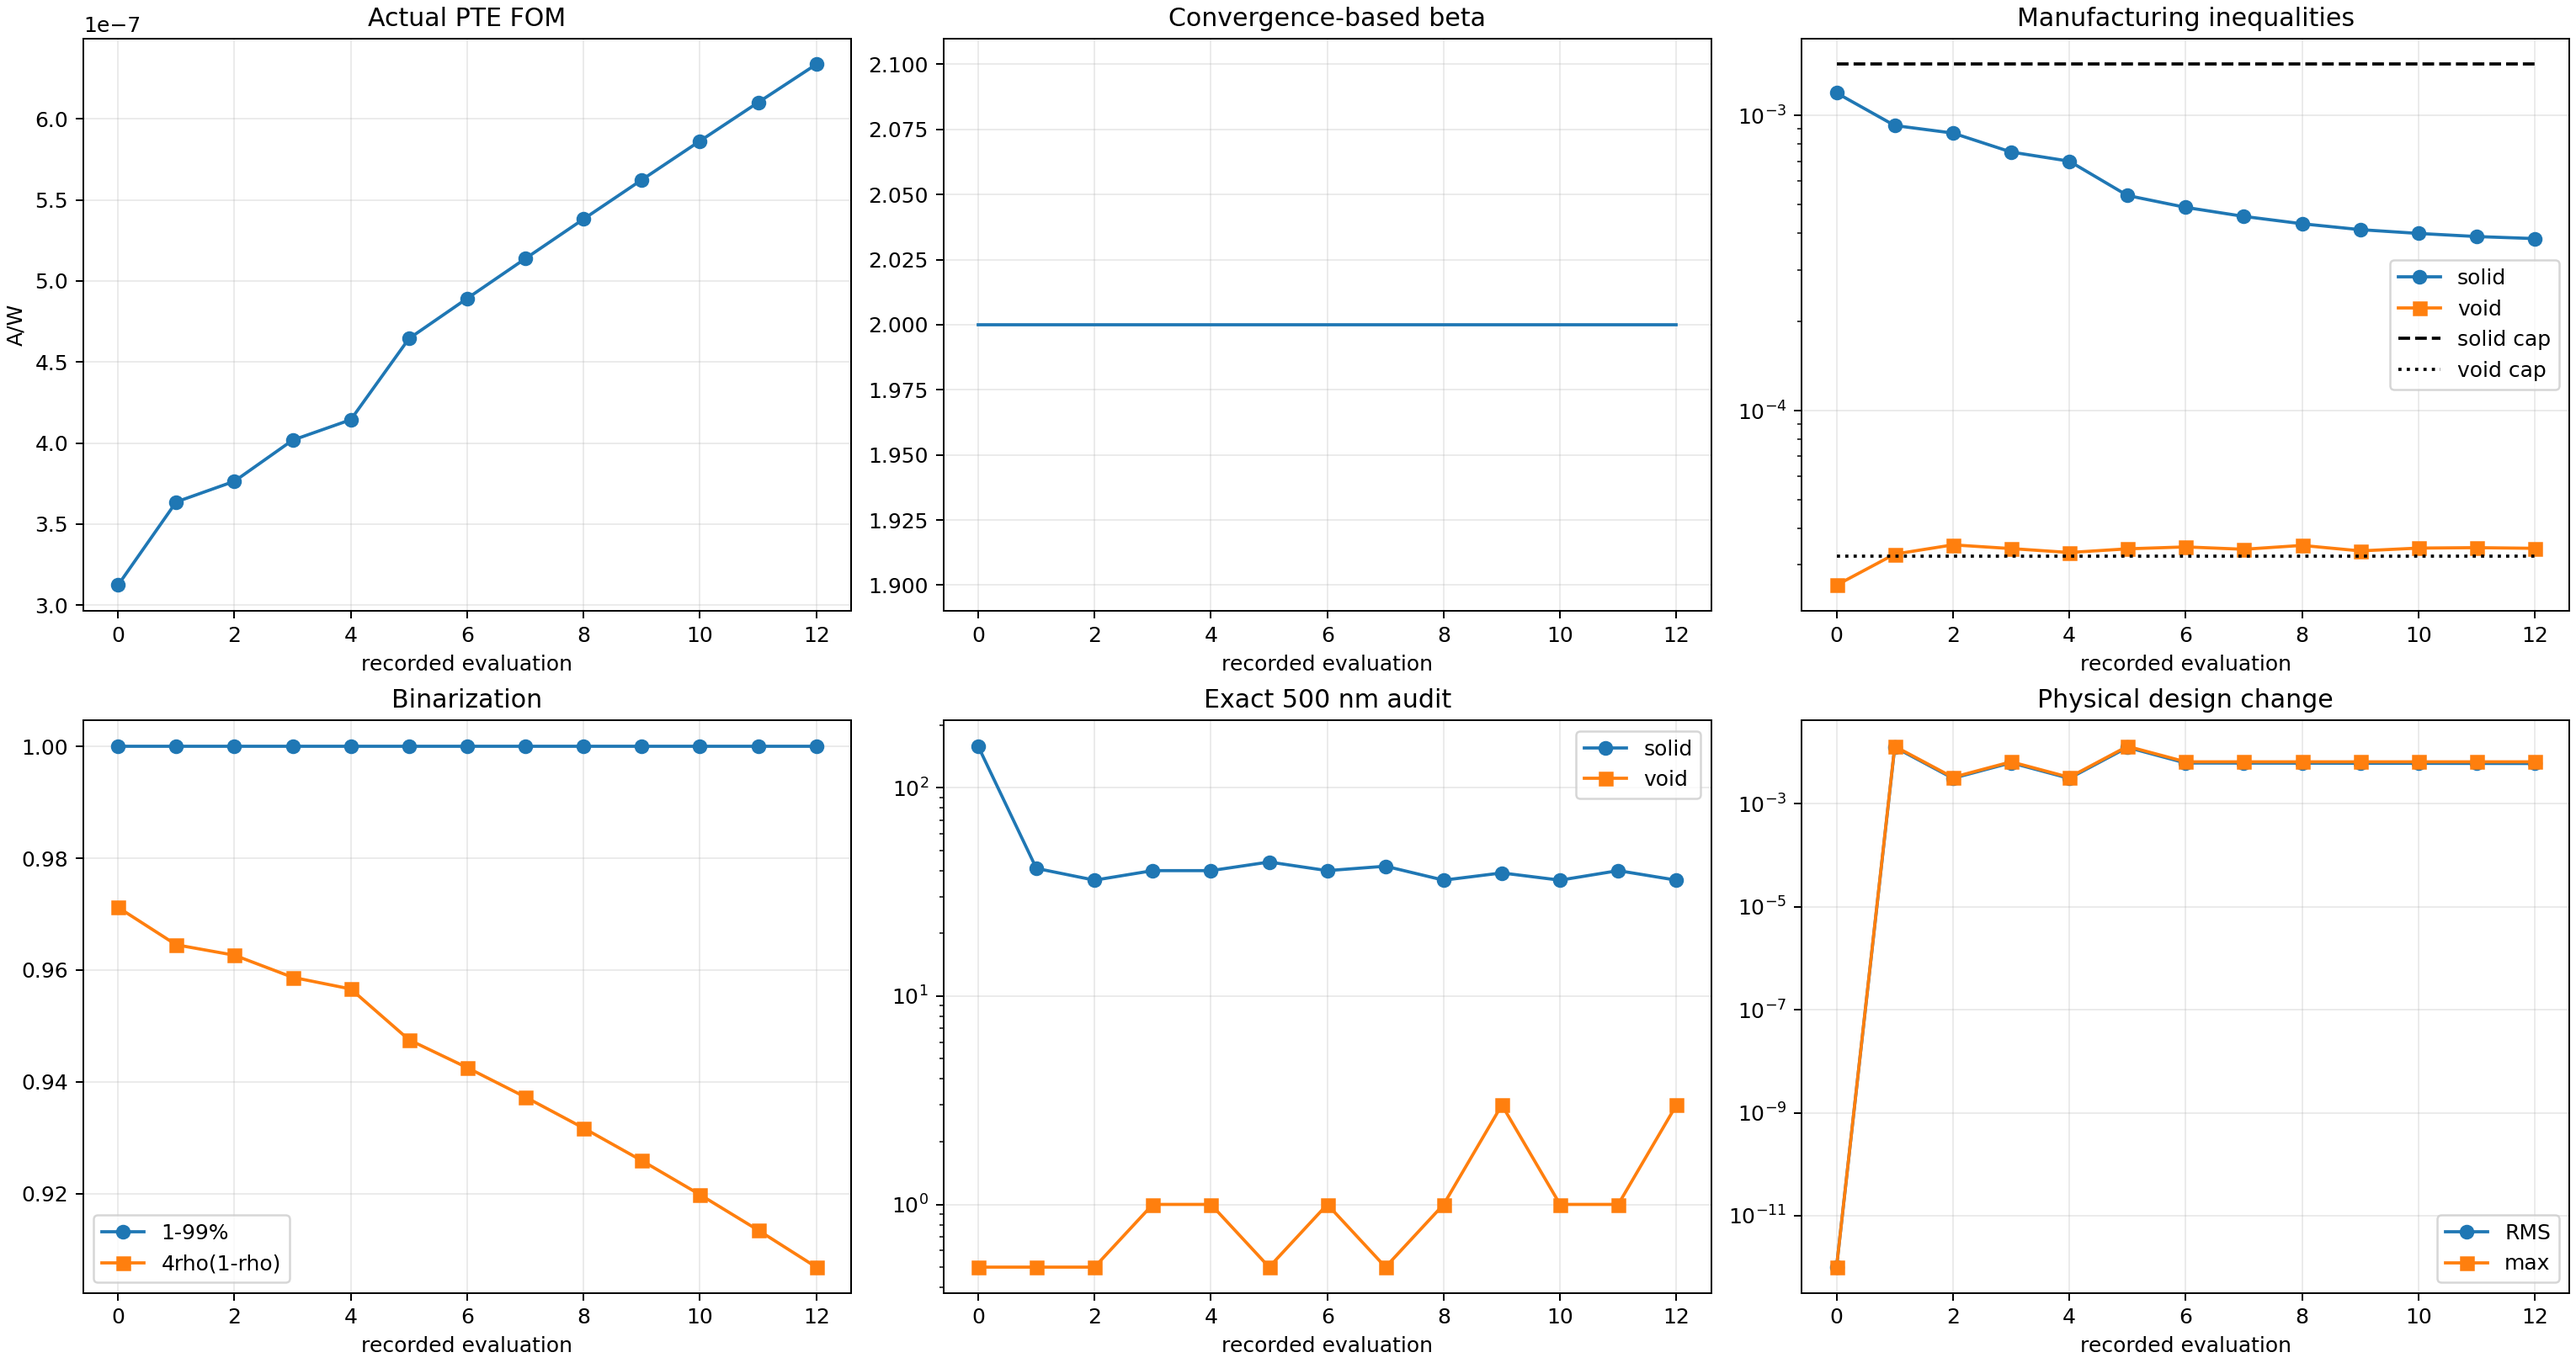
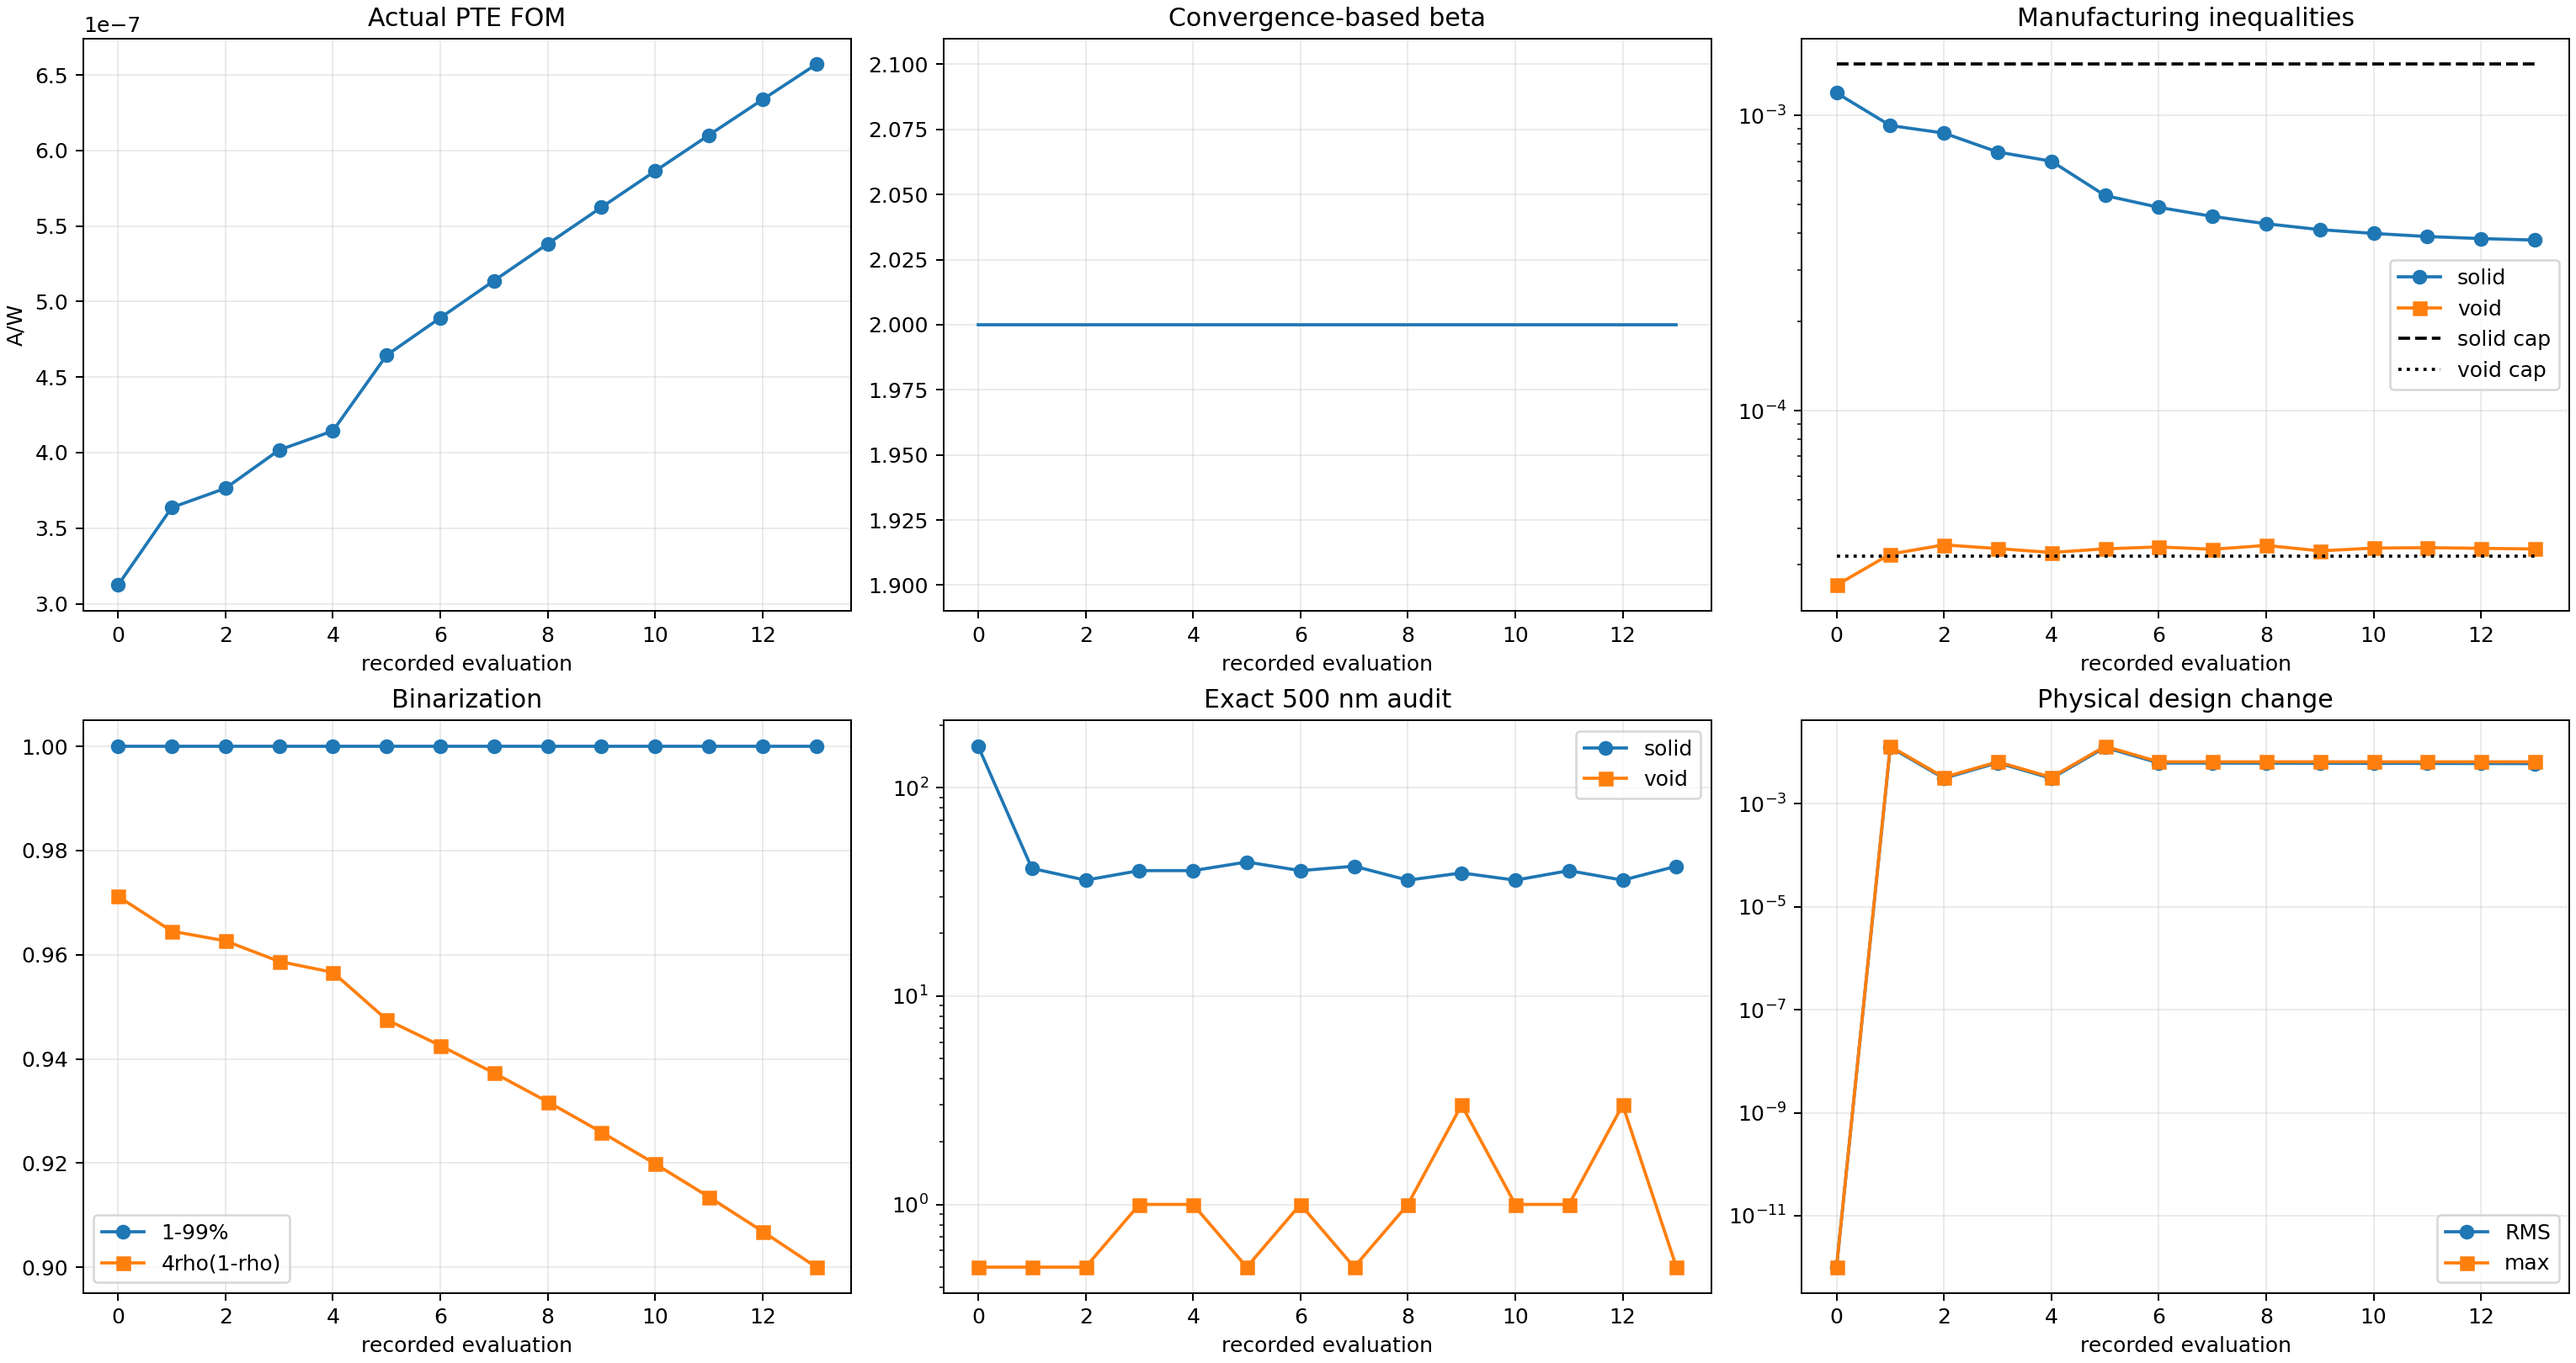
Record Run 005 run008_Ea_b002_s013_g013_accepted_mma

diff --git a/photothermal_pte/optimization_runs/run_008_corrected_Ea_objective_first_constrained/results/OPTIMIZATION_REPORT.md b/photothermal_pte/optimization_runs/run_008_corrected_Ea_objective_first_constrained/results/OPTIMIZATION_REPORT.md
@@ -2,12 +2,12 @@
 
 Status: `RUNNING_CORRECTED_EA_OBJECTIVE_FIRST_CONSTRAINED_OPTIMIZATION`
 
-Current stage: beta=2, accepted stage iteration=12, global iteration=12.
+Current stage: beta=2, accepted stage iteration=13, global iteration=13.
 
 Constraint contract: `soft_disk_opening_500nm_from_iteration_zero_v5`.
 
-Actual FOM: `6.336979212102e-07 A/W`. Fixed-cap solid/void constraints: `3.827071e-04` / `3.416016e-05` with caps `1.490220e-03` / `3.204288e-05`.
+Actual FOM: `6.570330191528e-07 A/W`. Fixed-cap solid/void constraints: `3.782714e-04` / `3.398882e-05` with caps `1.490220e-03` / `3.204288e-05`.
 
-Exact 500 nm bad cells: solid `36`, void `3`. Stage convergence: `False` (fixed solid/void inequalities are not feasible).
+Exact 500 nm bad cells: solid `42`, void `0`. Stage convergence: `False` (fixed solid/void inequalities are not feasible).
 
 Beta advances only after the stage FOM/density plateau. The run is not complete until the projected-binary and exact 500 nm gates pass and a fresh thresholded-binary GPU/CUDA evaluation succeeds.
